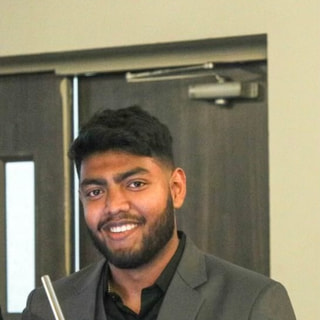
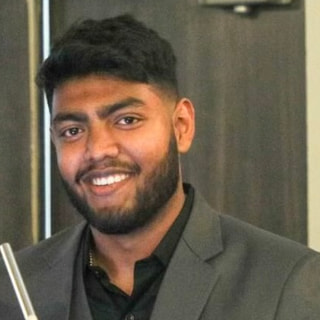
Match Love Sinha's portrait to the scale of the other three
His head filled 40% of the square against 54-63% for the others, so he read as
standing further back than everyone else on the same row. Cropping tighter puts
him at 55% with his eye line level with Ranjit's.

The cost is resolution: the crop drops from 546px to 405px, because the source
is a 546px web-sized image rather than a camera original. I checked all 118
frames in the shoot folder and none of them are him, so this is the ceiling.
Against a 280px card it still exceeds a 1x display and sits under a 2x one.

The srcset descriptors are corrected with it - a stale "546w" pointing at a
405px file would have had the browser choosing on a width the file never had.

diff --git a/public/about.html b/public/about.html
@@ -412,8 +412,8 @@ body{background:var(--bg);color:var(--fg);font-family:'Inter',system-ui,sans-ser
       <div class="leader-card">
         <div class="leader-photo">
           <picture class="leader-portrait">
-            <source type="image/webp" srcset="img/love-sinha-320.webp 320w, img/love-sinha-546.webp 546w" sizes="(max-width:520px) calc(100vw - 80px), (max-width:860px) calc(50vw - 58px), 280px">
-            <img src="img/love-sinha-546.jpg" srcset="img/love-sinha-320.jpg 320w, img/love-sinha-546.jpg 546w" sizes="(max-width:520px) calc(100vw - 80px), (max-width:860px) calc(50vw - 58px), 280px" width="546" height="546" alt="Love Sinha, IT Administrator at Met-Test Laboratories" loading="lazy" decoding="async">
+            <source type="image/webp" srcset="img/love-sinha-320.webp 320w, img/love-sinha-405.webp 405w" sizes="(max-width:520px) calc(100vw - 80px), (max-width:860px) calc(50vw - 58px), 280px">
+            <img src="img/love-sinha-405.jpg" srcset="img/love-sinha-320.jpg 320w, img/love-sinha-405.jpg 405w" sizes="(max-width:520px) calc(100vw - 80px), (max-width:860px) calc(50vw - 58px), 280px" width="405" height="405" alt="Love Sinha, IT Administrator at Met-Test Laboratories" loading="lazy" decoding="async">
           </picture>
           <div class="leader-photo-placeholder">
             <svg xmlns="http://www.w3.org/2000/svg" width="26" height="26" viewBox="0 0 24 24" fill="none" stroke="currentColor" stroke-width="1.5" stroke-linecap="round" stroke-linejoin="round"><path d="M20 21v-2a4 4 0 0 0-4-4H8a4 4 0 0 0-4 4v2"/><circle cx="12" cy="7" r="4"/></svg>

diff --git a/tools/build-leader-photos.js b/tools/build-leader-photos.js
@@ -45,9 +45,12 @@ const PEOPLE = [
   },
   {
     slug: 'love-sinha', file: 'thumbnail.jpeg thumbnail (1).jpeg',
-    // Only 546px wide, so the crop takes the full width - this is as much
-    // resolution as the source has.
-    side: 1, left: 0, top: 248 / 1181,
+    // Cropped to put his head at ~54% of the square, matching the other three
+    // (54-63%). Taking the full 546px width kept more pixels but left him
+    // visibly smaller than everyone else, which read as a mistake on the page.
+    // There is no camera original of him, so this trades resolution the source
+    // never really had for a card that matches its neighbours.
+    side: 405 / 546, left: 71 / 546, top: 410 / 1181,
     alt: 'Love Sinha, IT Administrator at Met-Test Laboratories',
   },
 ];
